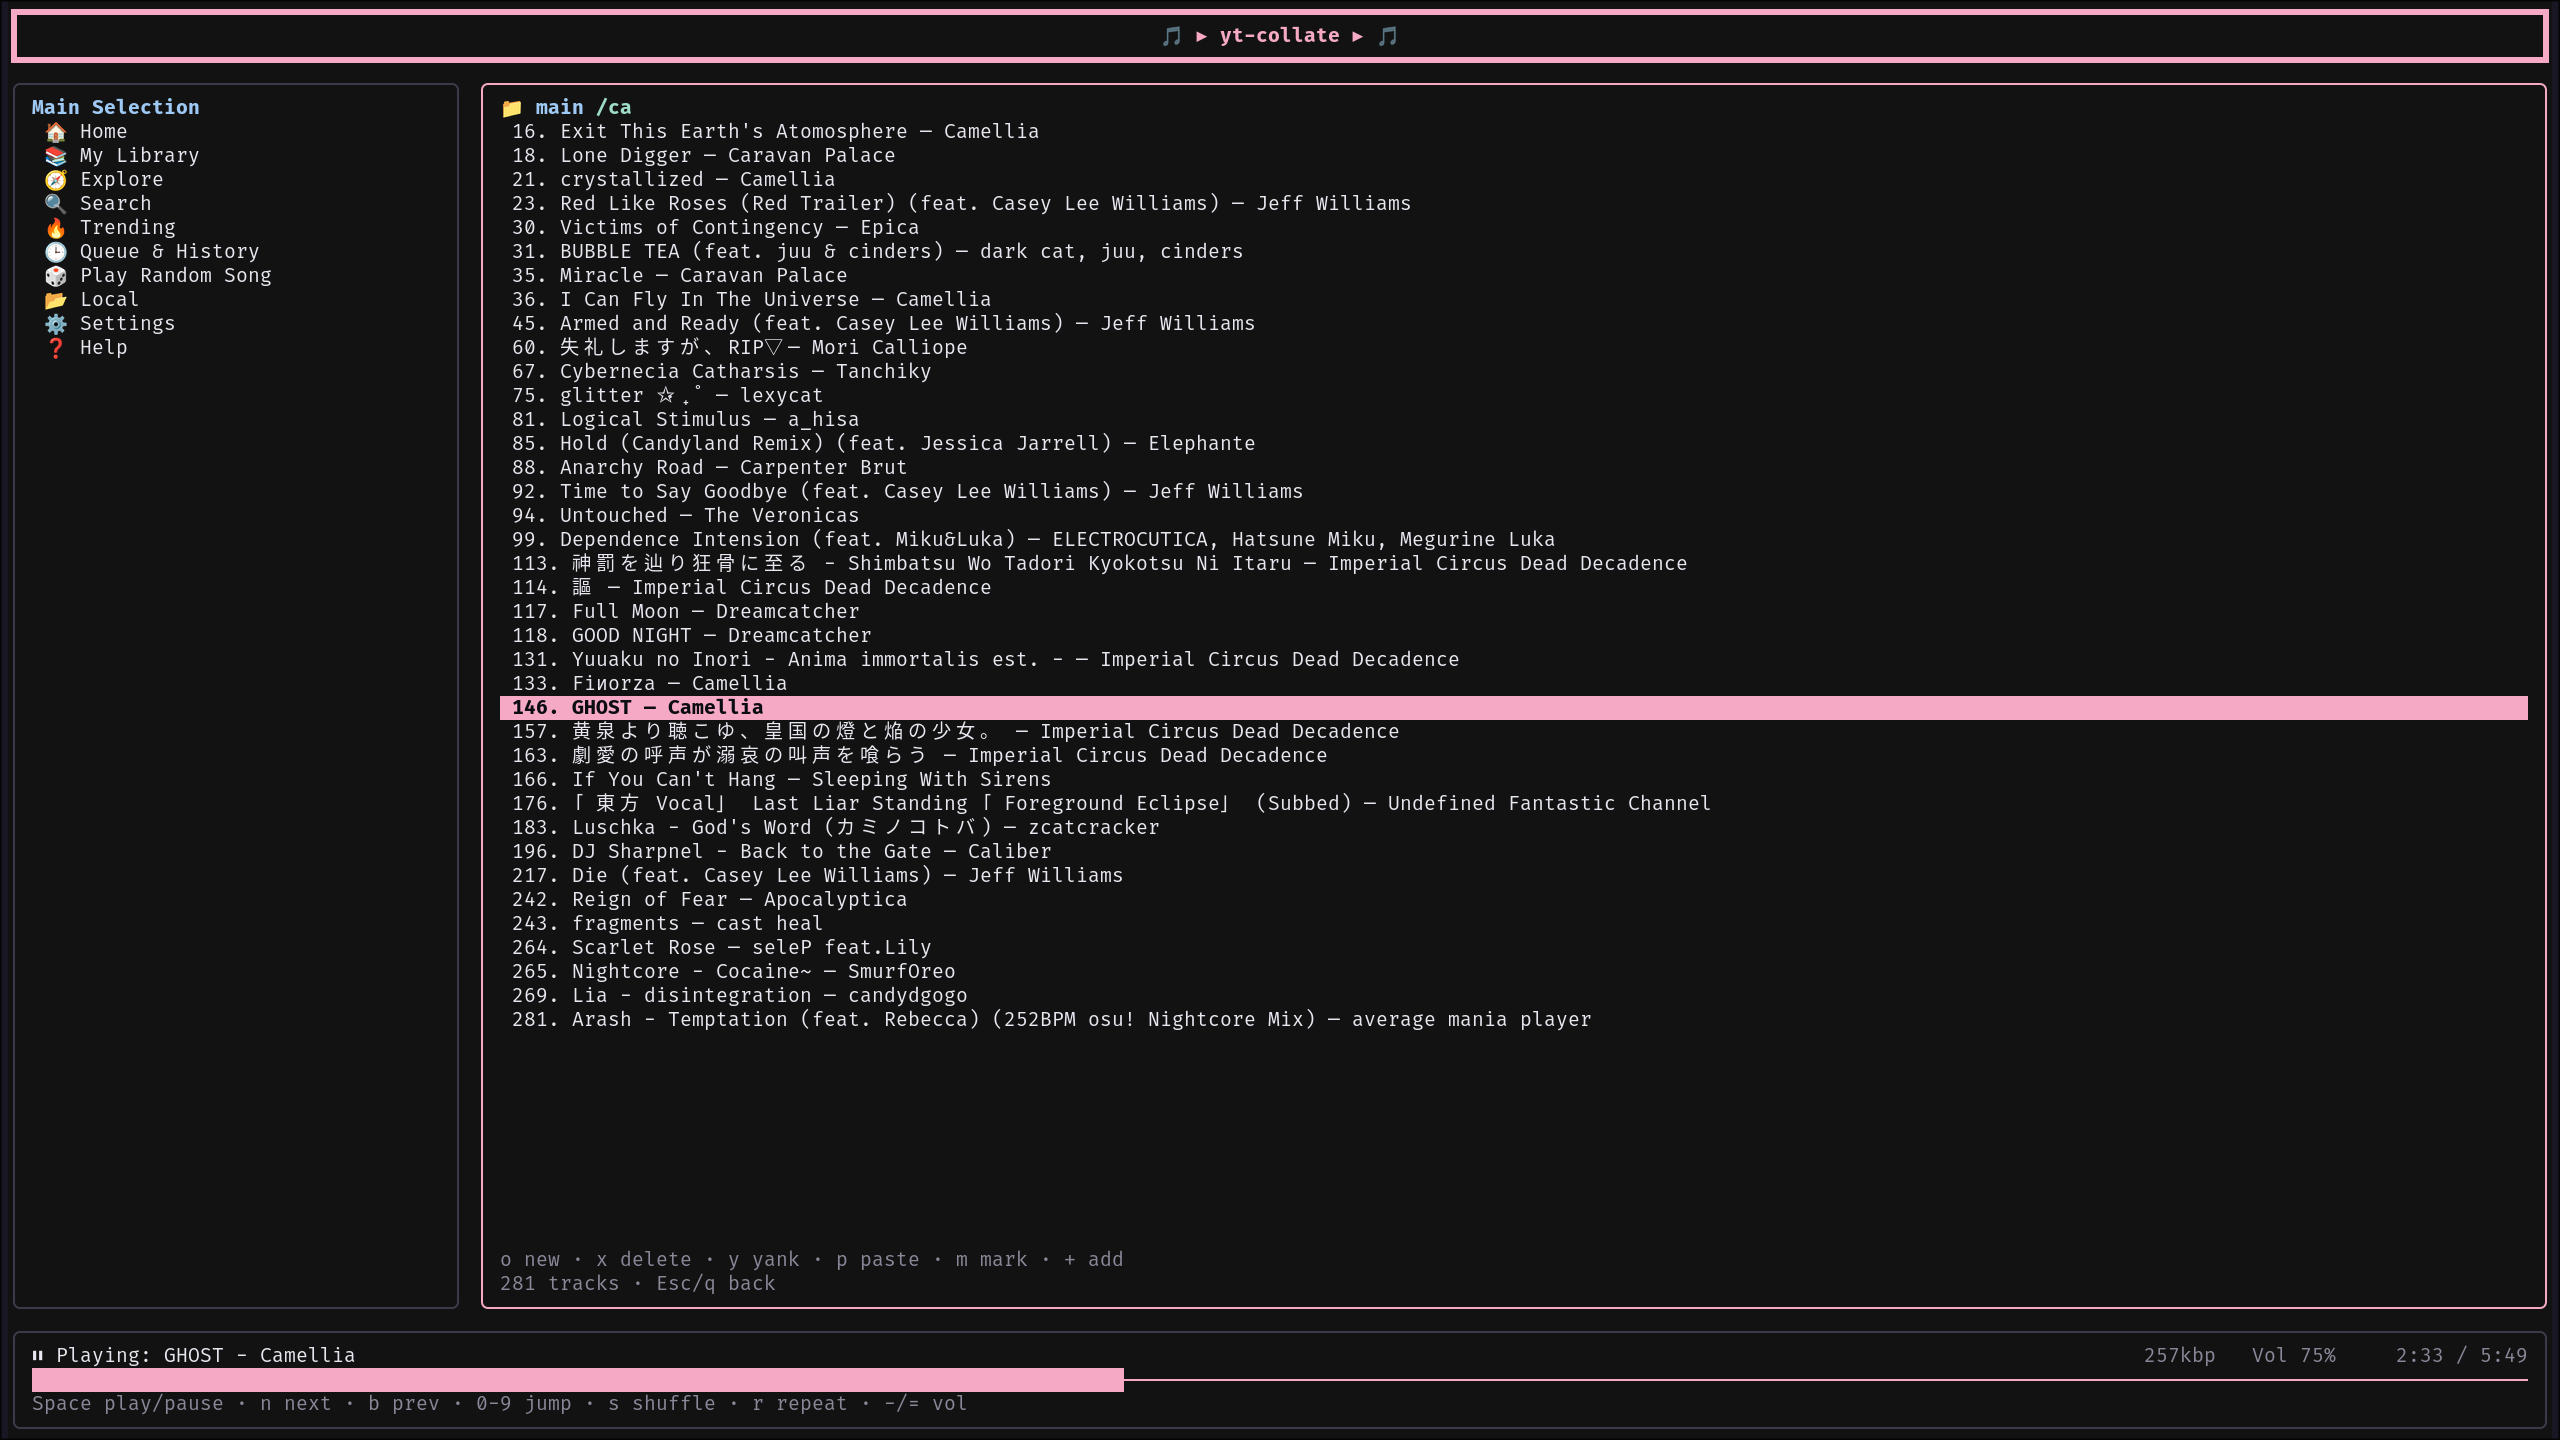
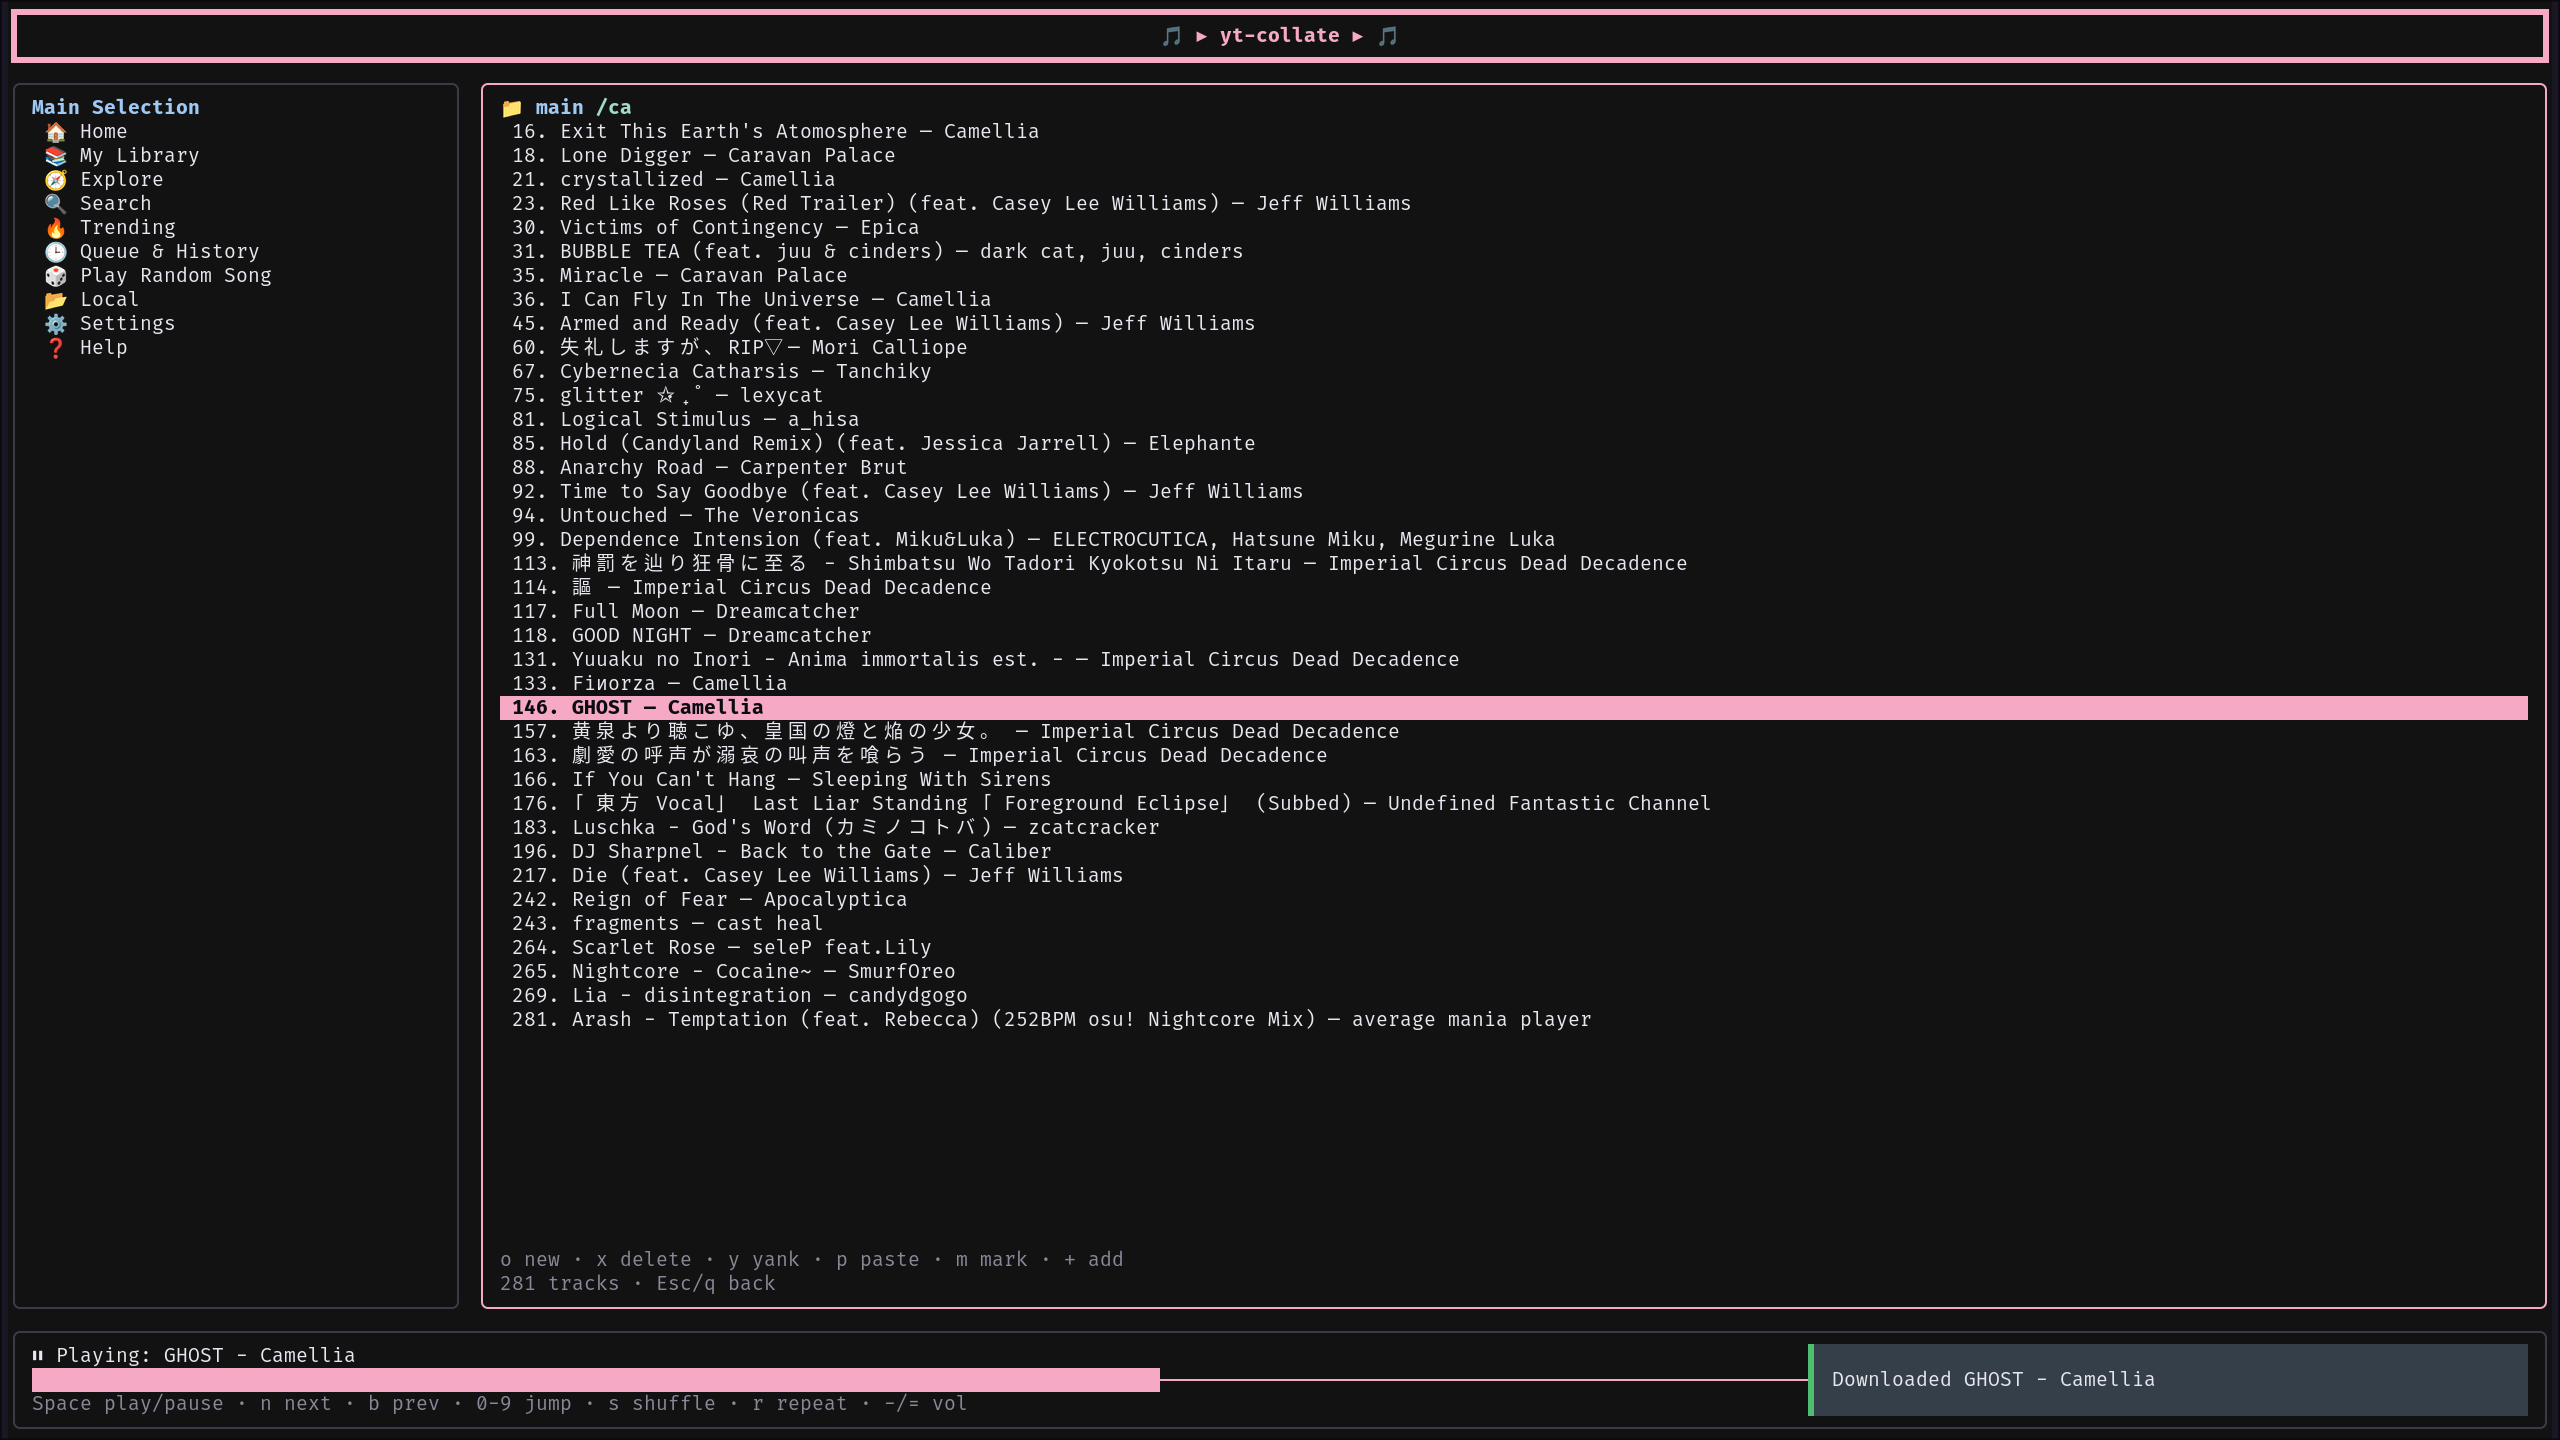
minor

Changed region(s): [[0.6875, 0.9062, 1.0, 1.0], [0.4375, 0.9375, 0.4688, 0.9688]]

diff --git a/src/services/player.py b/src/services/player.py
@@ -43,7 +43,7 @@ EofHandler = Callable[[], None]
 # fetches as HTTP 403. Commas are avoided because mpv splits
 # --ytdl-raw-options on commas
 _YTDL_MUSIC_CLIENT = "youtube:player_client=web_music" # official yt catalog songs
-_YTDL_VIDEO_CLIENT = "youtube:player_client=visionos" # maybe web_music works for both
+_YTDL_VIDEO_CLIENT = "youtube:player_client=visionos" # so it reliably plays non-song videos
 
 
 def detect_ytdlp_js_runtime() -> str | None:

diff --git a/README.md b/README.md
@@ -22,12 +22,9 @@ uv sync
 uv run yt-collate
 ```
 
-Short alias: `uv run ytc`.
-
 ## Features
 
 - Clean, minimalistic, fullscreen TUI client for YouTube Music
-- Extremeley fast, lightweight, and responsive
 - Authentication to access your Library and personalized recommendations
 - Includes YouTube Music Home, Explore, Search, and Trending pages
 - Smooth playback experience, with a simple dynamic queue
@@ -37,6 +34,7 @@ Short alias: `uv run ytc`.
 - "Marking" playlists to easily add to collection from anywhere
 - YouTube Music subscribers benefit from enhanced audio bitrate (both streams and downloads)
 - Discord Rich Presence integration
+- Extremeley fast, lightweight, and responsive
 
 ![Library playlist](assets/playlist.png)
 
@@ -67,7 +65,7 @@ Data lives under `~/.config/yt-collate/` (override with `YT_COLLATE_CONFIG`). Do
 Contributions are welcome! As a start, consider adding your favorite genre to `GENRES` in `src/services/random_song.py`
 
 ```bash
-uv sync --group dev
-uv run pytest
-uv run ruff check .
+uv sync --group dev # install dev packages
+uv run pytest # for testing
+uv run ruff check . # for linting/formatting
 ```
